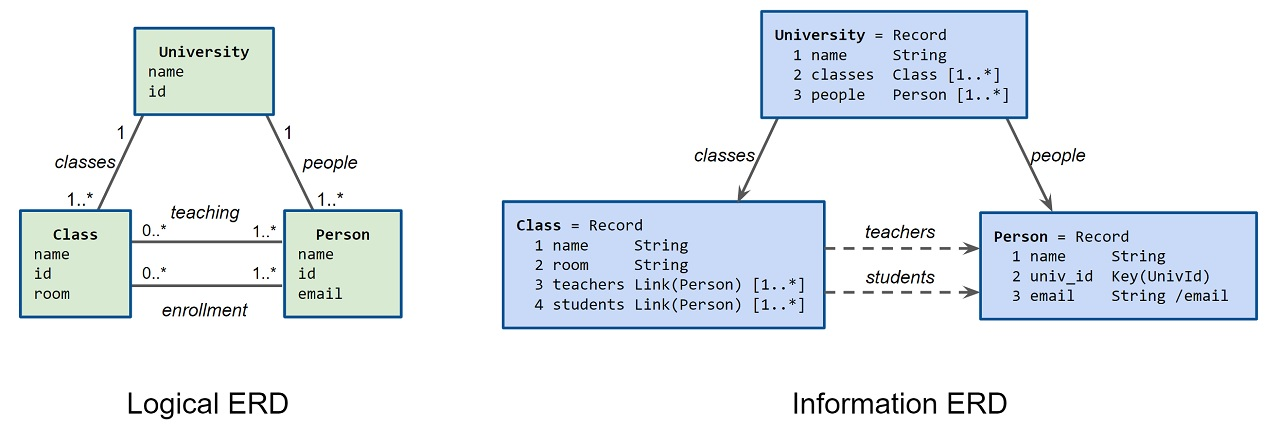
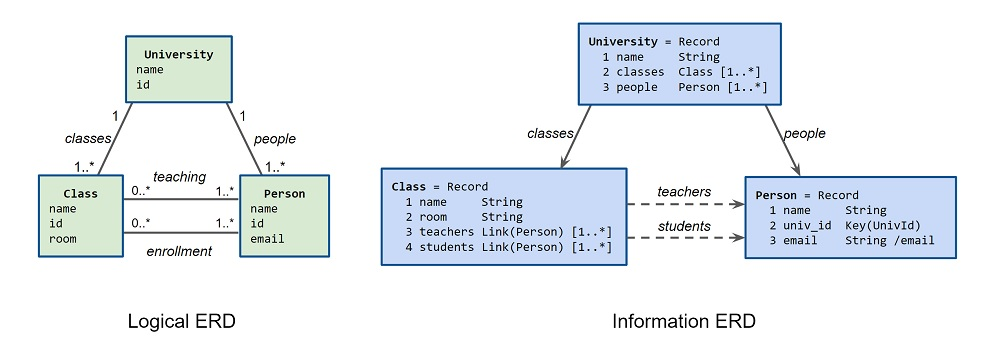
Clean up (#58)
* Update schema files, increase name default max to 64 chars

* Tweak for html readability, clarify default definition fields

* Fix css, convert ascii art to images

* Fix css, convert ascii art to images

* Fix css, convert ascii art to images

* Fix css, convert ascii art to images

diff --git a/styles/markdown-styles-v1.7.3a.css b/styles/markdown-styles-v1.7.3a.css
@@ -11,14 +11,14 @@
 /* pk 2019-02-18 - v1.7.1 (experimental) changed px to pt (and reduced numbers) for fonts and tables; added bigtitle style */
 /* pk 2019-05-23 - v1.7.2 (based on 1.7.1) changed monospace "code" font to Courier New */
 /* pk 2019-08-01 - v1.7.3 substitute PostScript name for fonts (LiberationSans for "Liberation Sans" and CourierNew for "Courier New") to address a flaw in "wkhtmltopdf" which rendered all text as bold. Changed "bigtitle" to "h1big"*/
-/* dk 2020-10-21 - v1.7.3a (unofficial for jadn, based on 1.7.3) update block quotes and code blocks
+/* dk 2020-10-21 - v1.7.3a (unofficial for jadn, based on 1.7.3) update block quotes and code blocks */
 
 body {
     margin-left: 3pc;
     margin-right: 3pc;
     font-family: LiberationSans, Arial, Helvetica, sans-serif;
 	font-size:12pt;
-	line-height:1.2
+	line-height:1.2;
      }
 
 html{overflow-x:auto}
@@ -60,7 +60,7 @@ table, th, td {
 }
 th {
 	color:#ffffff;
-	background-color:#1a8cff;
+	background-color: #446CAA;
 	}
 		/* "table-striped" tag is not generated by pandoc - add manually in HTML if wanted */
 .table-striped tbody tr:nth-child(even){background-color:#d6f3ff}
@@ -82,4 +82,9 @@ blockquote {
     background-color:#f0f0f0;
     padding-left: 10px;
     border-left: solid lightgray 6px;
+}
+
+/* space bullets a bit */
+li {
+    margin: 3px 0;
 }

diff --git a/jadn-v1.0-wd02.md b/jadn-v1.0-wd02.md
@@ -4,19 +4,21 @@
 # Specification for JSON Abstract Data Notation (JADN) Version 1.0
 
 ## Working Draft 02
-<!-- ## Committee Specification Draft 01 -->
+<!-- ## Committee Specification 01 -->
 
 ## 16 June 2021
 
 <!-- URI list start (commented out except during publication by OASIS TC Admin)
 
 #### This version:
+https://docs.oasis-open.org/openc2/jadn/v1.0/cs01/jadn-v1.0-cs01.md (Authoritative) \
+https://docs.oasis-open.org/openc2/jadn/v1.0/cs01/jadn-v1.0-cs01.html \
+https://docs.oasis-open.org/openc2/jadn/v1.0/cs01/jadn-v1.0-cs01.pdf
+
+#### Previous version:
 https://docs.oasis-open.org/openc2/jadn/v1.0/csd01/jadn-v1.0-csd01.md (Authoritative) \
 https://docs.oasis-open.org/openc2/jadn/v1.0/csd01/jadn-v1.0-csd01.html \
 https://docs.oasis-open.org/openc2/jadn/v1.0/csd01/jadn-v1.0-csd01.pdf
-
-#### Previous version:
-N/A
 
 #### Latest version:
 https://docs.oasis-open.org/openc2/jadn/v1.0/jadn-v1.0.md (Authoritative) \
@@ -80,11 +82,9 @@ The key words "MUST", "MUST NOT", "REQUIRED", "SHALL", "SHALL NOT", "SHOULD", "S
 #### Citation format:
 When referencing this specification the following citation format should be used:
 
-**[JADN-v1.0]**
-
-JSON Abstract Data Notation Version 1.0. Edited by David Kemp. 16 June 2021.
-
-OASIS Committee Specification Draft 01. https://docs.oasis-open.org/openc2/jadn/v1.0/csd01/jadn-v1.0-csd01.html.
+**[JADN-v1.0]**  
+JSON Abstract Data Notation Version 1.0. Edited by David Kemp. 16 June 2021.  
+OASIS Committee Specification Draft 01. https://docs.oasis-open.org/openc2/jadn/v1.0/csd01/jadn-v1.0-csd01.html.  
 Latest version: https://docs.oasis-open.org/openc2/jadn/v1.0/jadn-v1.0.html.
 
 -------
@@ -183,38 +183,28 @@ including the term "[Information Engineering](#ie)", which at one time referred 
   technology-agnostic information layer that lies between the logical data model and
   multiple technology-specific physical data models.
 
-```code
-DIKW Pyramid:            Knowledge               Information          Data
+![Information Engineering](images/info-engineering.jpg)
 
-UML:                      Classes                 DataTypes
-
-              +------------+   +------------+                     +------------+
-Data          | Conceptual |   |  Logical   |                     |  Physical  |
-Modeling:     | Data Model |   | Data Model |                     | Data Model |
-              +------------+   +------------+                     +------------+
-
-              +------------+   +------------+   +-------------+   +-------------+
-Information   | Conceptual |   |  Logical   |   | Information |   |   Physical  |-+
-Modeling:     |   Model    |   |   Model    |   |    Model    |   | Data Models | |
-              +------------+   +------------+   +-------------+   +-------------+ |
-                                                                    +-------------+
-```
 ###### Figure 1: Information Engineering Terminology
 
 UML class models and diagrams are commonly referred to as "Data Models", but they model knowledge
-of real-world entities using classes while information models model data itself using datatypes.
+of real-world entities using classes. In contrast, information models model data itself using datatypes.
 A practical distinction is that class models are undirected graphs with an unlimited variety of
-classes and semantic relationships, while information models are directed graphs with a predefined
+classes and semantic relationships, while information models are directed graphs with a small predefined
 set of base datatypes and only two kinds of relationship: "contain" and "reference".
-Converting a class/logical model to an information model is largely a matter of assigning the kind and
+Designing an information model from a class/logical model is largely a matter of assigning the kind and
 direction of each relationship, establishing identifiers for all referenceable datatypes, and
 selecting the kind of each datatype from among the base types defined by an information modeling
-language. Converting an information model to a data model involves defining serialization rules
+language. Converting an information model to a data model means applying serialization rules
 for each base type that produce physical data in the desired format.
 
-## 1.1 Changes from earlier versions
+## 1.1 Changes from CSD 01
 
-N/A
+* Added serialization style description to [Section 2.2](#22-information-modeling).
+* Removed the Null base type from [Table 3.1](#table-3-1-jadn-base-types).
+* Added default values for type definition elements to [Section 3.1.1](#311-requirements)
+* Raised the default maximum length for type and field names from 32 to 64 characters
+   ([Section 3.1.2](#312-name-formats)).
 
 ## 1.2 Glossary
 
@@ -294,6 +284,8 @@ N/A
 - Font colors and styles
 - Typographic conventions
 -->
+
+-------
 
 # 2 Information vs. Data
 
@@ -502,7 +494,7 @@ For homogeneous collections JADN uses the single "ArrayOf" type with a *set*, *u
 option ([Section 3.2.1](#321-type-options)) rather than defining separate names for each collection type.
 
 | Ordered | Unique | Traditional<br>Name | JADN<br>Same Type | JADN<br>Specified Type |
-| :-----: | :----: | :--------- | :----------------- | :------- |
+| ------- | ------ | ---------- | ------------------ | -------- |
 | false   | true   | Set        | ArrayOf+set, MapOf | Map      |
 | true    | false  | Sequence   | ArrayOf            | Array    |
 | true    | true   | OrderedSet | ArrayOf+unique     | Record   |
@@ -541,15 +533,6 @@ JADN type definitions have a fixed structure designed to be easily describable, 
     5. **FieldDescription:** a non-normative comment
 
 
-The elements of a type definition are layed out as:
-
-```
- TypeName BaseType TypeOptions TypeDescription
-    FieldID  FieldName  FieldType  FieldOptions  FieldDescription
-    FieldID  FieldName  FieldType  FieldOptions  FieldDescription
-    FieldID  FieldName  FieldType  FieldOptions  FieldDescription
-```
-
 The elements are serialized in JSON format as:
 ```
 [TypeName, BaseType, [TypeOption, ...], TypeDescription, []]                            (primitive)
@@ -564,6 +547,12 @@ The elements are serialized in JSON format as:
     ...
 ]]
 ```
+The same type definition structure can be populated with various levels of detail.
+At the conceptual level, only TypeName is present, along with FieldType for attributes
+that reference other model-defined types. At the logical level FieldName is populated for both
+base and reference attribute types. In a full information model, all Type and Options elements are defined: 
+
+![JADN Type Definitions](images/jadn-defs.jpg)
 
 ### 3.1.1 Requirements
 * TypeName MUST NOT be a JADN predefined type  
@@ -596,8 +585,9 @@ JADN does not restrict the syntax of TypeName and FieldName, but naming conventi
 * Specifications that do not define alternate name formats MUST use the definitions in Figure 3-1 expressed as [ABNF](#rfc5234) and [Regular Expression](#es9):
 ```
 ABNF:
-TypeName   = UC *63("-" / Sys / UC / LC / DIGIT)    ; PascalCase / Train-Case, 1-32 characters
-FieldName  = LC *63("_" / UC / LC / DIGIT)          ; camelCase / snake_case, 1-32 characters
+TypeName   = UC *63("-" / Sys / UC / LC / DIGIT)    ; PascalCase / Train-Case, 1-64 characters
+FieldName  = LC *63("_" / UC / LC / DIGIT)          ; camelCase / snake_case, 1-64 characters
+
 NSID       = (UC / LC) *7(UC / LC / DIGIT)          ; Namespace ID, length = 1-8 characters
 TypeRef    = [NSID ":"] TypeName                    ; Reference to a defined type with optional namespace prefix
 
@@ -1464,7 +1454,7 @@ diagrams using the following conventions:
 
 ###### Figure 5-1: Logical and Information Entity Relationship Diagrams
 
-The edge type and direction illustrate visually how instances are serialized, in this case using references
+The edge type and direction show how instances are serialized, in this case using references
 from Class to Person.  An alternate information model derived from the same logical model might
 use references "teaches" and "enrolled_in" from Person to Class.
 
@@ -1550,6 +1540,8 @@ Figure 5-3 is an example instance of the University type serialized in
 ]
 ```
 ###### Figure 5-3: JSON instance of University
+
+-------
 
 # 6 Schema Packages
 
